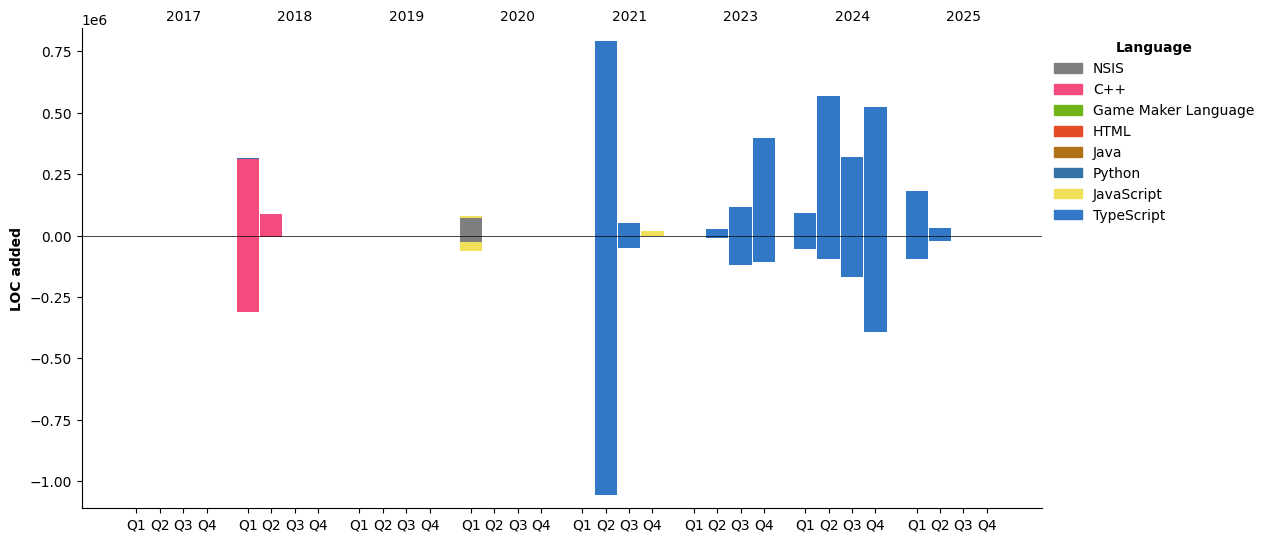
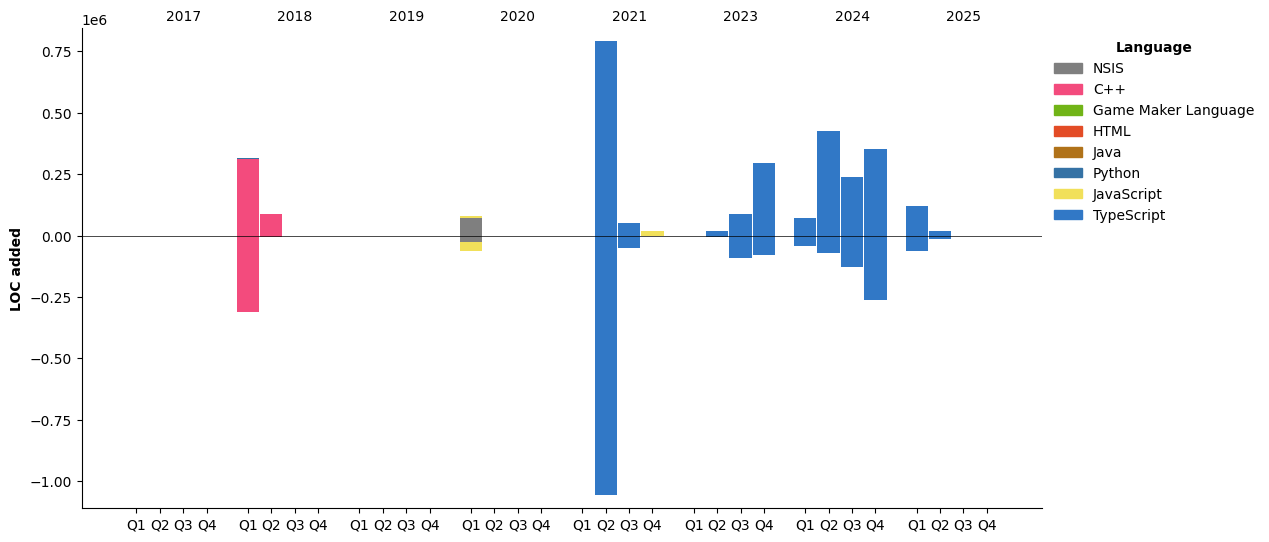
Updated with Dev Metrics

diff --git a/README.md b/README.md
@@ -32,13 +32,15 @@ Senior software engineer here, specializing in making things happen instantly (l
 ![Serverless](https://img.shields.io/badge/Serverless-1f2937?style=flat&logo=serverless&logoColor=FD5750)
 
 <!--START_SECTION:waka-->
-![Code Time](http://img.shields.io/badge/Code%20Time-4%2C433%20hrs%204%20mins-blue)
+![Code Time](http://img.shields.io/badge/Code%20Time-4%2C423%20hrs%203%20mins-blue)
 
-![Lines of code](https://img.shields.io/badge/From%20Hello%20World%20I%27ve%20Written-3.6%20million%20lines%20of%20code-blue)
+![Lines of code](https://img.shields.io/badge/From%20Hello%20World%20I%27ve%20Written-3.0%20million%20lines%20of%20code-blue)
 
 **🐱 My GitHub Data** 
 
 > 📦 2.4 MB Used in GitHub's Storage 
+ > 
+> 🏆 139 Contributions in the Year 2025
  > 
 > 💼 Opted to Hire
  > 
@@ -49,10 +51,10 @@ Senior software engineer here, specializing in making things happen instantly (l
 **I'm an Early 🐤** 
 
 ```text
-🌞 Morning                263 commits         ███░░░░░░░░░░░░░░░░░░░░░░   12.30 % 
-🌆 Daytime                963 commits         ███████████░░░░░░░░░░░░░░   45.04 % 
-🌃 Evening                541 commits         ██████░░░░░░░░░░░░░░░░░░░   25.30 % 
-🌙 Night                  371 commits         ████░░░░░░░░░░░░░░░░░░░░░   17.35 % 
+🌞 Morning                192 commits         ███░░░░░░░░░░░░░░░░░░░░░░   11.61 % 
+🌆 Daytime                723 commits         ███████████░░░░░░░░░░░░░░   43.71 % 
+🌃 Evening                430 commits         ██████░░░░░░░░░░░░░░░░░░░   26.00 % 
+🌙 Night                  309 commits         █████░░░░░░░░░░░░░░░░░░░░   18.68 % 
 ```
 
 
@@ -62,25 +64,25 @@ Senior software engineer here, specializing in making things happen instantly (l
 🕑 Time Zone: America/Chicago
 
 💬 Programming Languages: 
-Other                    20 hrs 42 mins      █████████████░░░░░░░░░░░░   50.86 % 
-TypeScript               19 hrs 8 mins       ████████████░░░░░░░░░░░░░   47.00 % 
-JSON                     43 mins             ░░░░░░░░░░░░░░░░░░░░░░░░░   01.80 % 
-HTML                     4 mins              ░░░░░░░░░░░░░░░░░░░░░░░░░   00.20 % 
-Markdown                 2 mins              ░░░░░░░░░░░░░░░░░░░░░░░░░   00.10 % 
+Other                    23 hrs 17 mins      ████████████░░░░░░░░░░░░░   49.05 % 
+TypeScript               20 hrs 8 mins       ███████████░░░░░░░░░░░░░░   42.39 % 
+Markdown                 1 hr 48 mins        █░░░░░░░░░░░░░░░░░░░░░░░░   03.82 % 
+JSON                     1 hr 12 mins        █░░░░░░░░░░░░░░░░░░░░░░░░   02.55 % 
+HTML                     25 mins             ░░░░░░░░░░░░░░░░░░░░░░░░░   00.91 % 
 
 🔥 Editors: 
-Chrome                   20 hrs 36 mins      █████████████░░░░░░░░░░░░   50.60 % 
-VS Code                  20 hrs 7 mins       ████████████░░░░░░░░░░░░░   49.40 % 
+Chrome                   25 hrs 41 mins      ██████████████░░░░░░░░░░░   54.09 % 
+VS Code                  21 hrs 48 mins      ███████████░░░░░░░░░░░░░░   45.91 % 
 
 🐱💻 Projects: 
-fly-fit                  38 hrs 49 mins      ████████████████████████░   95.33 % 
-react-native-worklets-val1 hr 4 mins         █░░░░░░░░░░░░░░░░░░░░░░░░   02.65 % 
-Bold Idea Tech Committee 38 mins             ░░░░░░░░░░░░░░░░░░░░░░░░░   01.56 % 
-Unknown Project          4 mins              ░░░░░░░░░░░░░░░░░░░░░░░░░   00.20 % 
-react-native-worklets-cor2 mins              ░░░░░░░░░░░░░░░░░░░░░░░░░   00.10 % 
+fly-fit                  40 hrs 44 mins      █████████████████████░░░░   85.76 % 
+seanblonien              3 hrs 43 mins       ██░░░░░░░░░░░░░░░░░░░░░░░   07.84 % 
+react-native-worklets-val1 hr 4 mins         █░░░░░░░░░░░░░░░░░░░░░░░░   02.28 % 
+tblankenship             24 mins             ░░░░░░░░░░░░░░░░░░░░░░░░░   00.87 % 
+sciencepal               21 mins             ░░░░░░░░░░░░░░░░░░░░░░░░░   00.76 % 
 
 💻 Operating System: 
-Mac                      40 hrs 43 mins      █████████████████████████   100.00 % 
+Mac                      47 hrs 29 mins      █████████████████████████   100.00 % 
 ```
 
 **I Mostly Code in TypeScript** 
